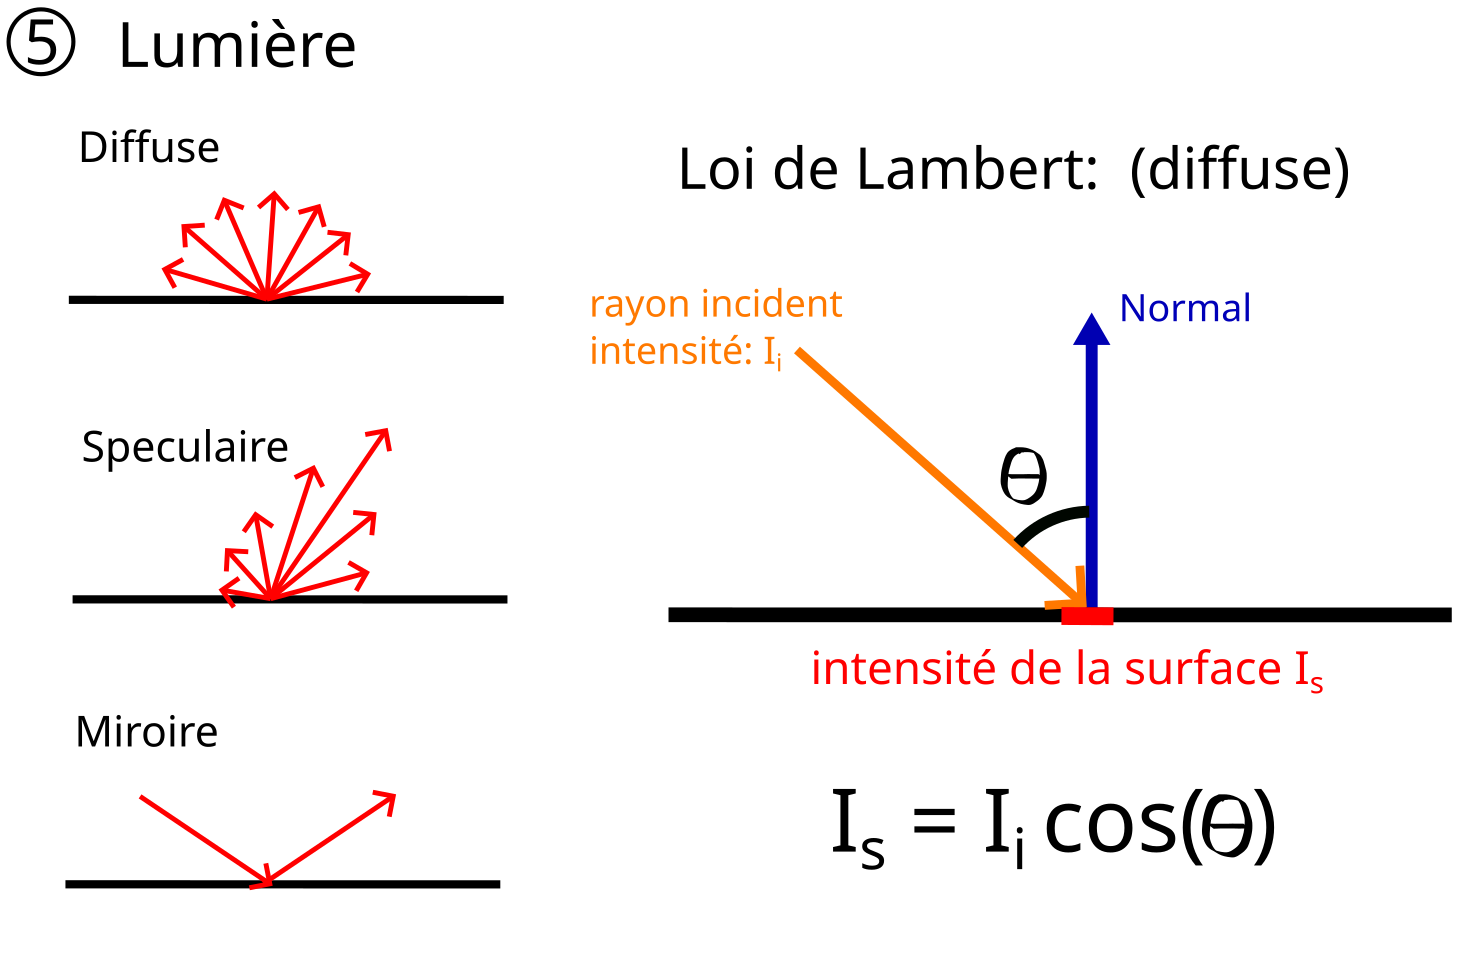
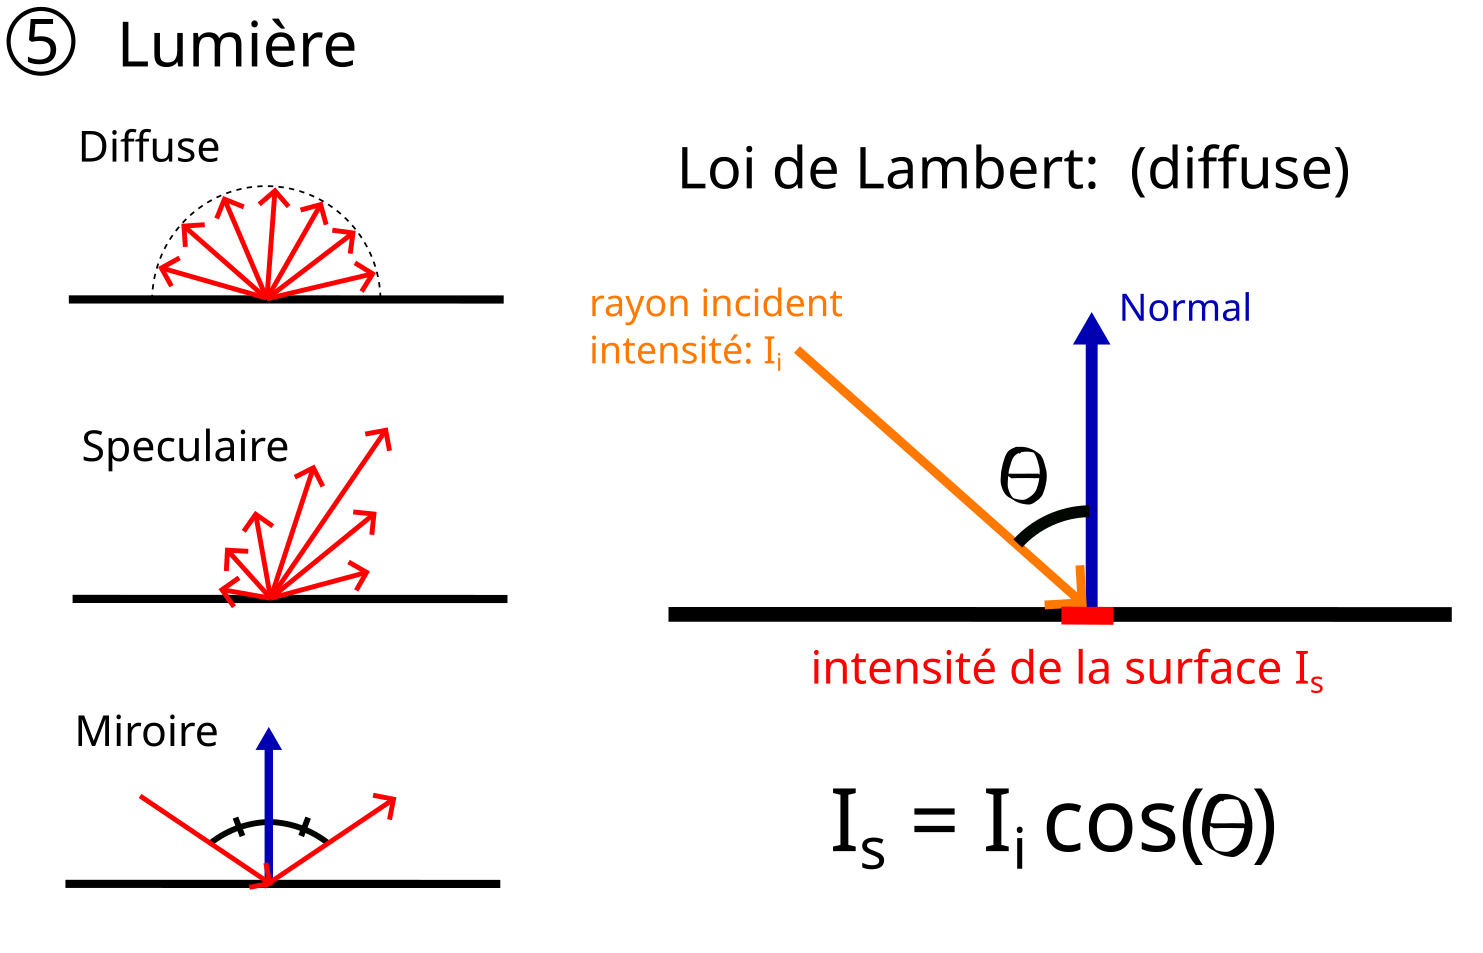
added light for tp billes

diff --git a/index.html b/index.html
@@ -56,7 +56,7 @@
 	    </h8>
 	</div>
 	<div id="update">
-	  <p><h9>Last update: 22/09/2026</h9>
+	  <p><h9>Last update: 28/09/2026</h9>
 	</div>
 
       </div>
@@ -105,7 +105,8 @@
 	    <a target="_blank" rel="noopener noreferrer" href = "cours/Telecom/tp2.css" > tp2.css </a><br>
 	    <br><br> -->
 	    <li><h4> Cours de graphisme par ordinateur</h4>
-	      <b>Telecom Nancy</b>, Université de Lorraine<br></li>
+	      <b>Telecom Nancy</b>, Université de Lorraine<br><br></li>
+	    <a target="_blank" rel="noopener noreferrer" href = "cours/Pictures/5_1_lumiere.png" > 5_1_lumiere.png</a><br>
 	    <br>
    	    <a target="_blank" rel="noopener noreferrer" href = "cours/graphics.odp" > Slides introduction rendu </a><br>
 	    <a target="_blank" rel="noopener noreferrer" href="https://jsfiddle.net/u/coursGraphics_schreck/fiddles/"> Lien Jsfiddle </a><br>
